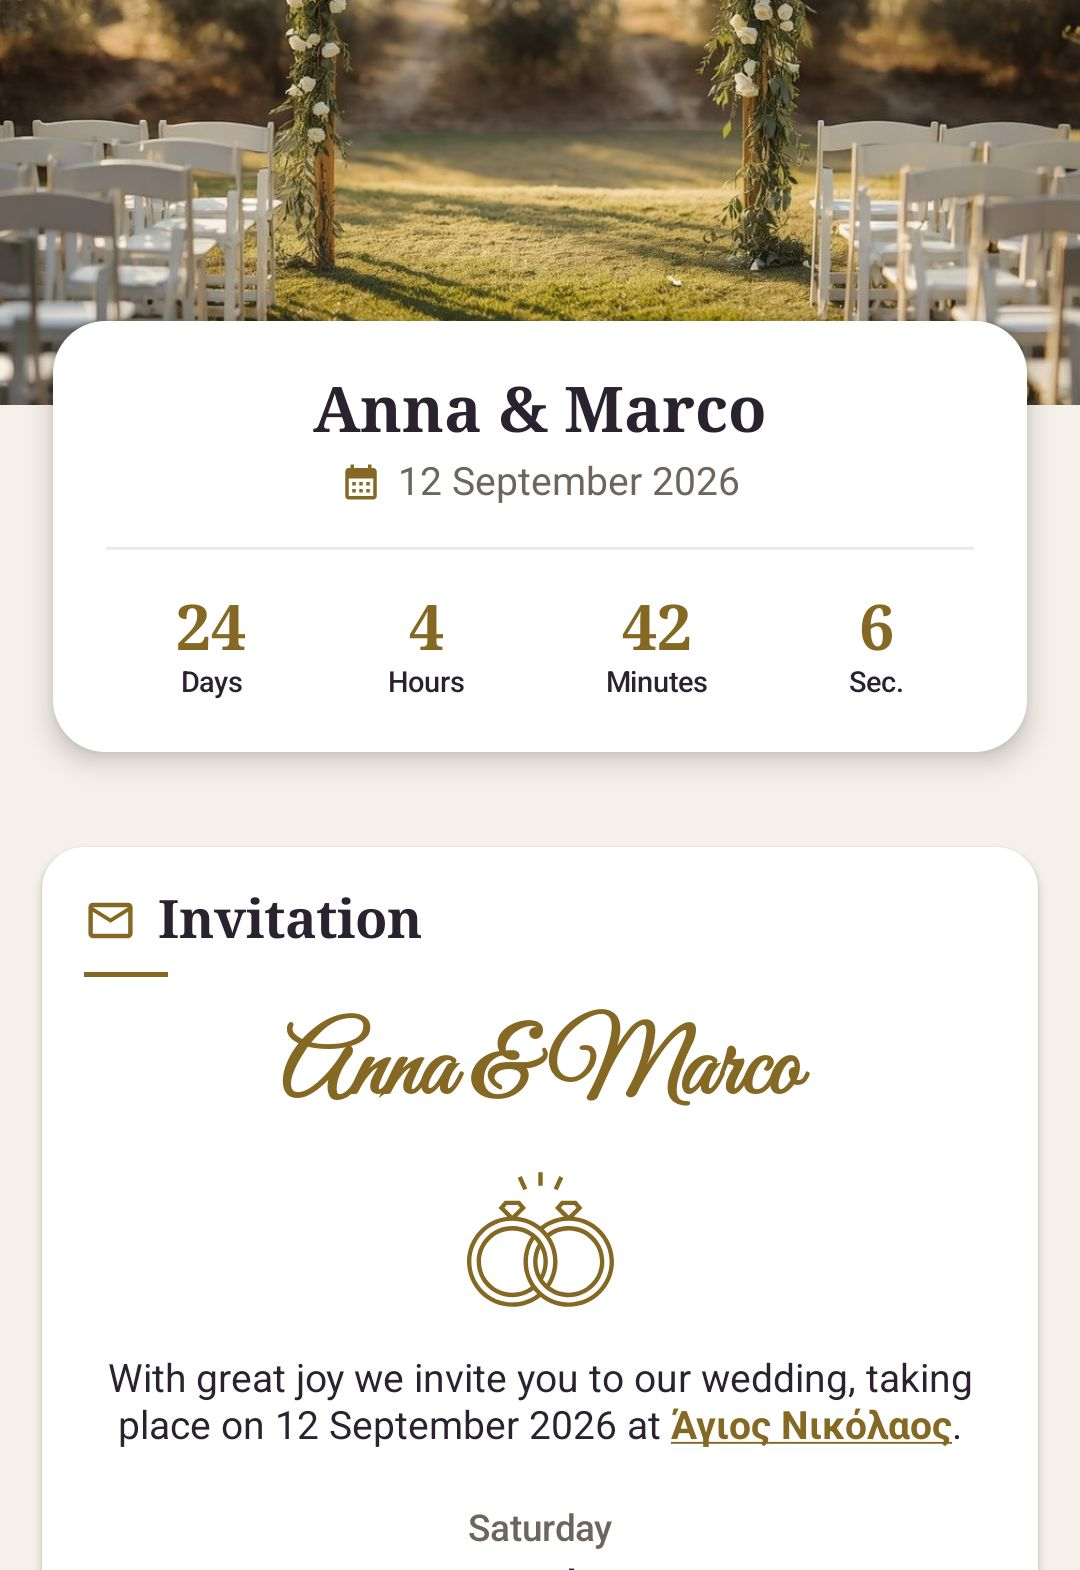
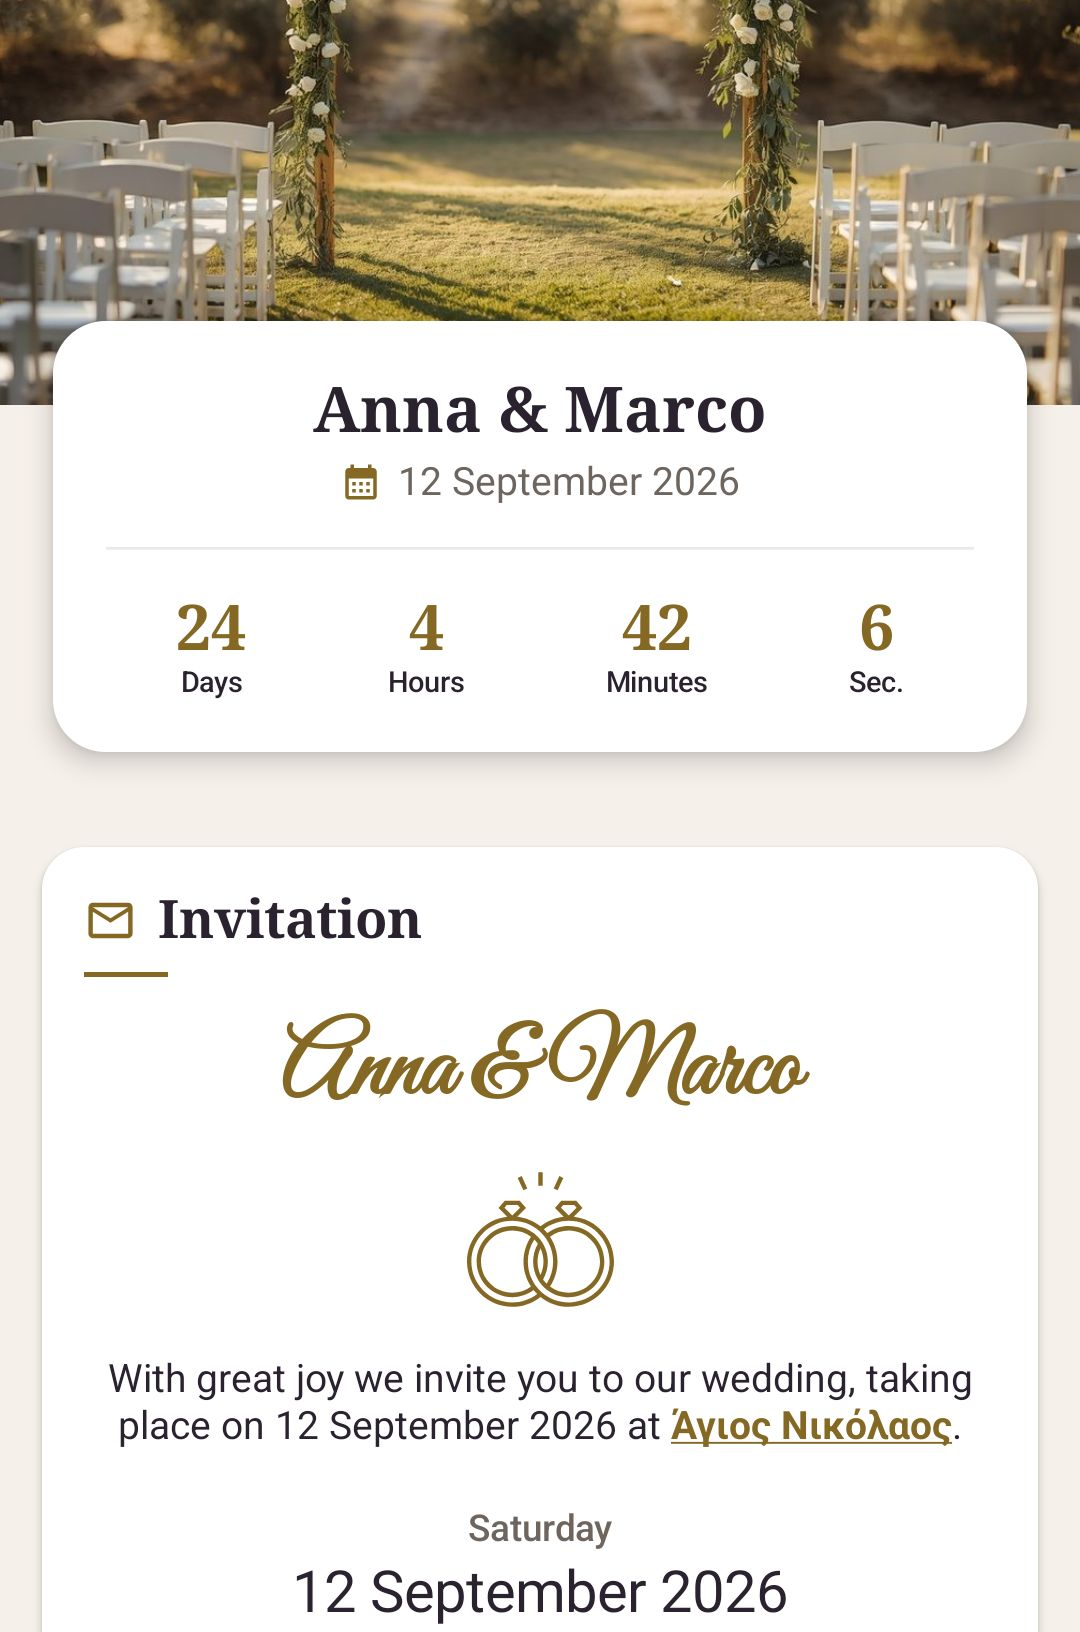
Tidy two things the phone made obvious
The phone crop ended on the ascenders of "12 September 2026", which reads
as a botched cut rather than as a page continuing below the window. It
now ends in the band of white underneath it, and carries the full date.

The Play mark had three facets and a stray gold wedge floating off the
right side; at 22px that is a smudge, not a logo. Drawn with all four
facets of the real silhouette, with the gold kept for the one the eye
lands on.

Changed region(s): [[0.0, 0.0, 1.0, 0.3121], [0.0611, 0.5306, 0.9167, 1.0], [0.0306, 0.3433, 0.9472, 0.4994]]

diff --git a/index.html b/index.html
@@ -265,7 +265,7 @@
                      740px of it laid out for a tablet; on a phone that same crop would be a
                      146px sliver, so narrow screens get the phone's own portrait view. -->
                 <picture>
-                    <source media="(max-width: 620px)" srcset="/assets/invitation-phone.jpg" width="1080" height="1570">
+                    <source media="(max-width: 620px)" srcset="/assets/invitation-phone.jpg" width="1080" height="1632">
                     <img src="/assets/invitation.jpg" width="1600" height="721"
                          alt="A wedding invitation for Anna and Marco open in a browser: a photograph of the ceremony arch, the words You are invited, and a card with the date and a countdown.">
                 </picture>
@@ -283,9 +283,10 @@
                 </span>
                 <span class="store is-soon">
                     <svg width="22" height="22" viewBox="0 0 24 24" aria-hidden="true">
-                        <path d="M4 2.7v18.6c0 .5.5.8.9.6l10.3-6-2.6-2.6L4 2.7z" fill="currentColor" opacity=".82"/>
-                        <path d="M4 2.7l8.6 10.6 2.6-2.6L4.9 2.1c-.4-.2-.9.1-.9.6z" fill="currentColor" opacity=".55"/>
-                        <path d="M18.9 10.6l-3.7-2.2-2.6 2.7 2.6 2.6 3.7-2.1c.5-.3.5-.7 0-1z" fill="#d4af5e"/>
+                        <path d="M3.6 2.2c-.3.3-.5.8-.5 1.4v16.8c0 .6.2 1.1.5 1.4l.1.1L13 12.1v-.2L3.7 2.2h-.1z" fill="currentColor" opacity=".5"/>
+                        <path d="M16.1 15.2 13 12.1v-.2l3.1-3.1.1.1 3.7 2.1c1 .6 1 1.6 0 2.2l-3.7 2.1-.1-.1z" fill="#d4af5e"/>
+                        <path d="M16.2 15.3 13 12 3.6 21.8c.4.4 1 .4 1.6.1l11-6.6z" fill="currentColor" opacity=".95"/>
+                        <path d="M16.2 8.7 5.2 2.1c-.6-.3-1.2-.3-1.6.1L13 12l3.2-3.3z" fill="currentColor" opacity=".72"/>
                     </svg>
                     <span><span class="small">Soon on</span><span class="big">Google Play</span></span>
                 </span>
@@ -388,9 +389,10 @@
                 </span>
                 <span class="store is-soon">
                     <svg width="22" height="22" viewBox="0 0 24 24" aria-hidden="true">
-                        <path d="M4 2.7v18.6c0 .5.5.8.9.6l10.3-6-2.6-2.6L4 2.7z" fill="currentColor" opacity=".82"/>
-                        <path d="M4 2.7l8.6 10.6 2.6-2.6L4.9 2.1c-.4-.2-.9.1-.9.6z" fill="currentColor" opacity=".55"/>
-                        <path d="M18.9 10.6l-3.7-2.2-2.6 2.7 2.6 2.6 3.7-2.1c.5-.3.5-.7 0-1z" fill="#d4af5e"/>
+                        <path d="M3.6 2.2c-.3.3-.5.8-.5 1.4v16.8c0 .6.2 1.1.5 1.4l.1.1L13 12.1v-.2L3.7 2.2h-.1z" fill="currentColor" opacity=".5"/>
+                        <path d="M16.1 15.2 13 12.1v-.2l3.1-3.1.1.1 3.7 2.1c1 .6 1 1.6 0 2.2l-3.7 2.1-.1-.1z" fill="#d4af5e"/>
+                        <path d="M16.2 15.3 13 12 3.6 21.8c.4.4 1 .4 1.6.1l11-6.6z" fill="currentColor" opacity=".95"/>
+                        <path d="M16.2 8.7 5.2 2.1c-.6-.3-1.2-.3-1.6.1L13 12l3.2-3.3z" fill="currentColor" opacity=".72"/>
                     </svg>
                     <span><span class="small">Soon on</span><span class="big">Google Play</span></span>
                 </span>
